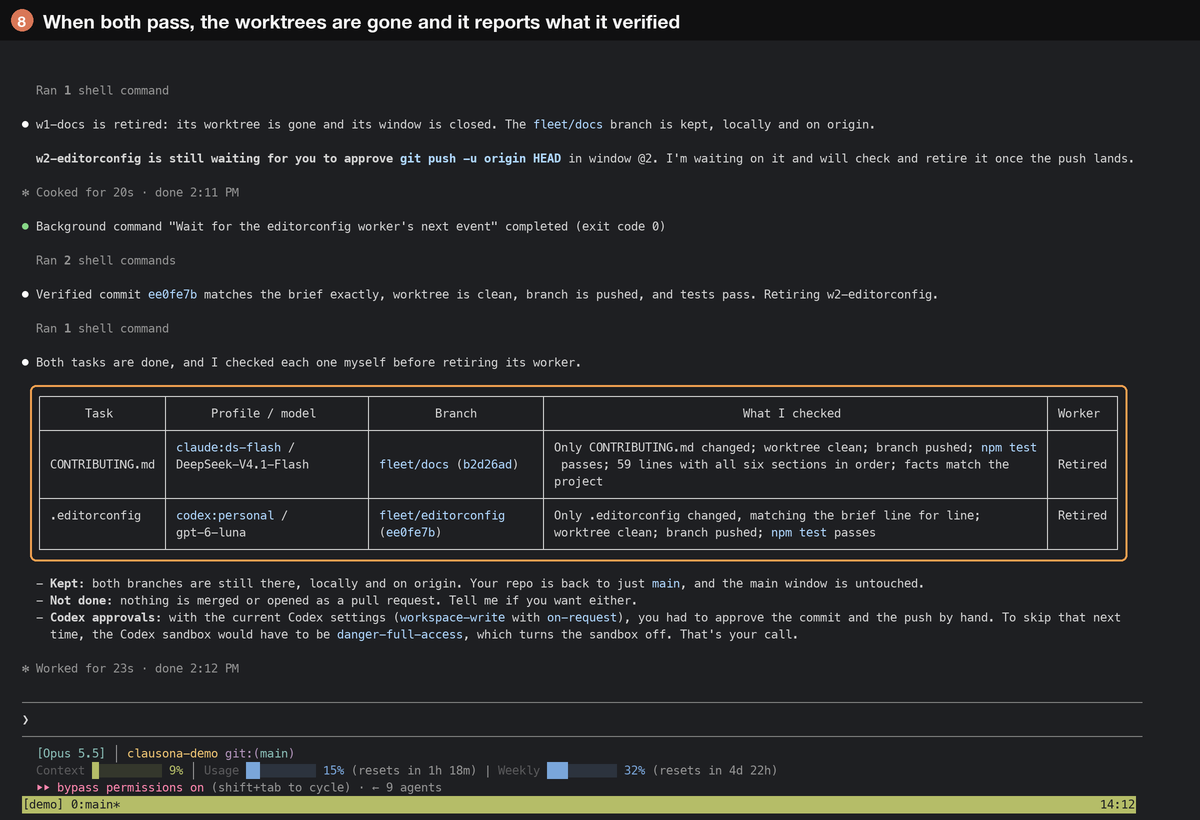
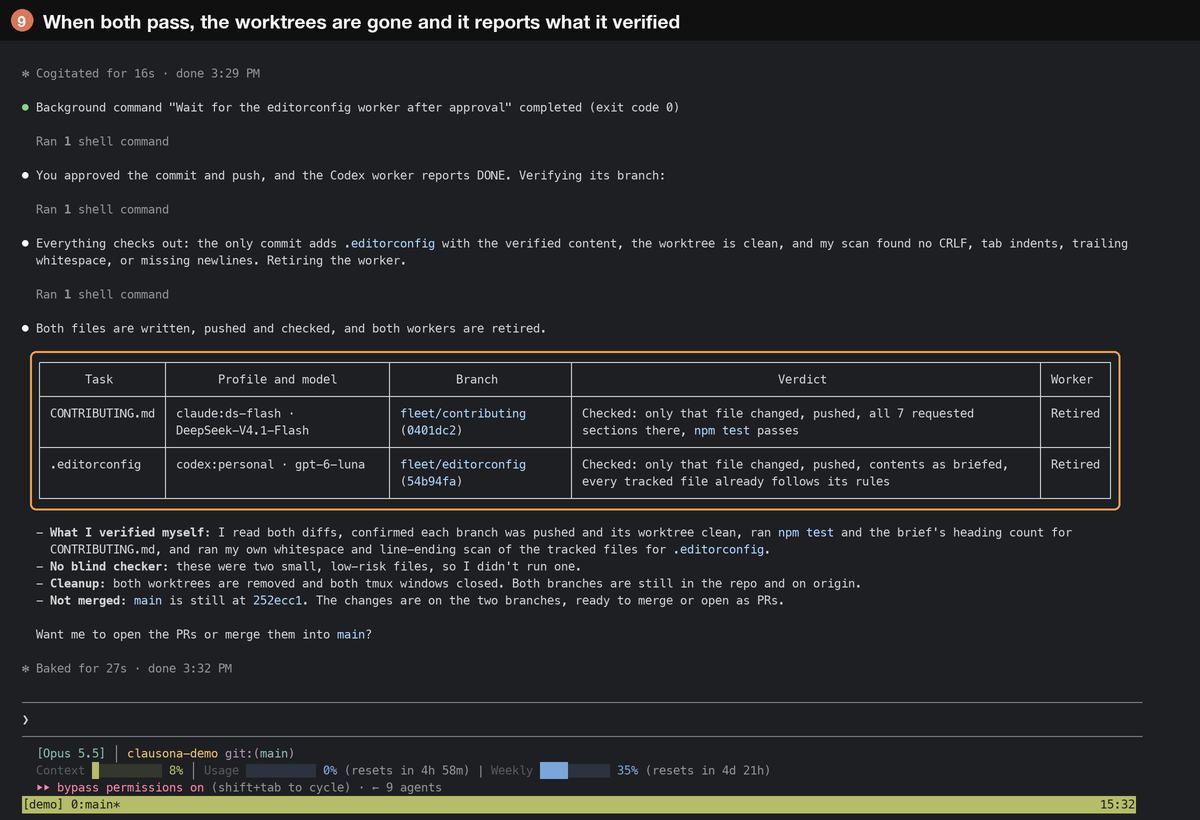
docs: re-record the tmux-fleet GIF to show tmux itself at work
The first take showed tmux only through the status bar and one window
switch, and cut the DeepSeek window. This take opens the tmux window
list with prefix + w and previews both workers, then shows the DeepSeek
worker in window 1 and the Codex worker in window 2, each pressed key in
the corner, the bell mark, the approval in the Codex window and both
windows closing after the main session checks each branch.

diff --git a/site/ko/parallel-agents-in-tmux/index.html b/site/ko/parallel-agents-in-tmux/index.html
@@ -149,8 +149,8 @@ claude plugin install tmux-fleet@clausona</code></pre>
       </div>
 
       <figure class="figure">
-        <img class="demo" src="../../assets/tmux-fleet.gif" width="1200" height="820" loading="lazy" alt="tmux에서 자기 계정의 Opus로 돌아가는 메인 Claude Code 세션이 작업마다 창을 열어, API로 연결한 DeepSeek 워커와 다른 계정의 Codex 워커를 띄우고, 브랜치를 하나씩 확인한 뒤 창을 닫는 화면. Codex 워커는 커밋과 푸시 전에 승인을 묻고, 벨이 울리면 tmux가 그 창에 표시를 붙인다.">
-        <figcaption>실제 실행 화면을 빨리 감아 보여 줍니다. 메인 세션은 자기 계정의 Opus로 돌아가요. 워커 하나는 API로 연결한 DeepSeek, 다른 하나는 다른 계정의 Codex입니다. Codex 워커는 커밋 전과 푸시 전에 한 번씩 승인을 물어서, 그 창으로 가서 승인했어요. 메인 세션은 브랜치를 하나씩 확인한 뒤에 창을 닫습니다.</figcaption>
+        <img class="demo" src="../../assets/tmux-fleet.gif" width="1200" height="820" loading="lazy" alt="tmux에서 자기 계정의 Opus로 돌아가는 메인 Claude Code 세션이 작업마다 창을 열어, API로 연결한 DeepSeek 워커와 다른 계정의 Codex 워커를 띄우는 화면. tmux 창 목록에서 두 워커를 미리보기로 확인하고, Codex 워커는 커밋과 푸시 전에 승인을 묻고, 벨이 울리면 tmux가 그 창에 표시를 붙인다. 메인 세션은 브랜치를 하나씩 확인한 뒤 창을 닫는다.">
+        <figcaption>실제 실행 화면을 빨리 감아 보여 줍니다. 메인 세션은 자기 계정의 Opus로 돌아가요. 워커 하나는 API로 연결한 DeepSeek, 다른 하나는 다른 계정의 Codex입니다. prefix + w로 두 창을 미리보기와 함께 확인하고, Codex 워커의 커밋과 푸시는 그 창에서 승인했어요. 메인 세션은 브랜치를 하나씩 확인한 뒤에 창을 닫습니다.</figcaption>
       </figure>
 
       <h2 id="see">tmux에서 보이는 것</h2>

diff --git a/site/guides/parallel-agents-in-tmux/index.html b/site/guides/parallel-agents-in-tmux/index.html
@@ -148,8 +148,8 @@ claude plugin install tmux-fleet@clausona</code></pre>
       </div>
 
       <figure class="figure">
-        <img class="demo" src="../../assets/tmux-fleet.gif" width="1200" height="820" loading="lazy" alt="A main Claude Code session in tmux, on Opus with its own account, opens a window per task, one worker on DeepSeek through an API and one on Codex with another account, then checks each branch and closes the windows. The Codex worker asks before it commits and pushes, and tmux marks its window when it rings the bell.">
-        <figcaption>A real run, sped up. The main session runs Opus on its own account. One worker runs DeepSeek through an API and the other runs Codex on another account. The Codex worker asks before it commits and again before it pushes, and you approve both in its window. The main session checks each branch before it closes the window.</figcaption>
+        <img class="demo" src="../../assets/tmux-fleet.gif" width="1200" height="820" loading="lazy" alt="A main Claude Code session in tmux, on Opus with its own account, opens a window per task, one worker on DeepSeek through an API and one on Codex with another account. The tmux window list shows both workers with a live preview, the Codex worker asks before it commits and pushes, tmux marks its window when it rings the bell, and the main session checks each branch before it closes the windows.">
+        <figcaption>A real run, sped up. The main session runs Opus on its own account. One worker runs DeepSeek through an API and the other runs Codex on another account. Prefix + w shows both windows with a live preview, and you approve the Codex worker's commit and push in its window. The main session checks each branch before it closes the window.</figcaption>
       </figure>
 
       <h2 id="see">What you see in tmux</h2>

diff --git a/docs/usecases/tmux-fleet.md b/docs/usecases/tmux-fleet.md
@@ -1,6 +1,6 @@
 # Run a tmux fleet across your accounts
 
-![A main Claude Code session in tmux, on Opus, opens a window per task, one worker on DeepSeek through an API and one on Codex with another account, then checks each branch and closes the windows](../../assets/tmux-fleet.gif)
+![A main Claude Code session in tmux, on Opus, opens a window per task, one worker on DeepSeek through an API and one on Codex with another account; the tmux window list previews both, and the main session checks each branch before it closes the windows](../../assets/tmux-fleet.gif)
 
 [tmux](https://github.com/tmux/tmux) keeps terminal sessions running and splits them into
 windows. clausona gives each Claude Code or Codex session in those windows its own account. With
